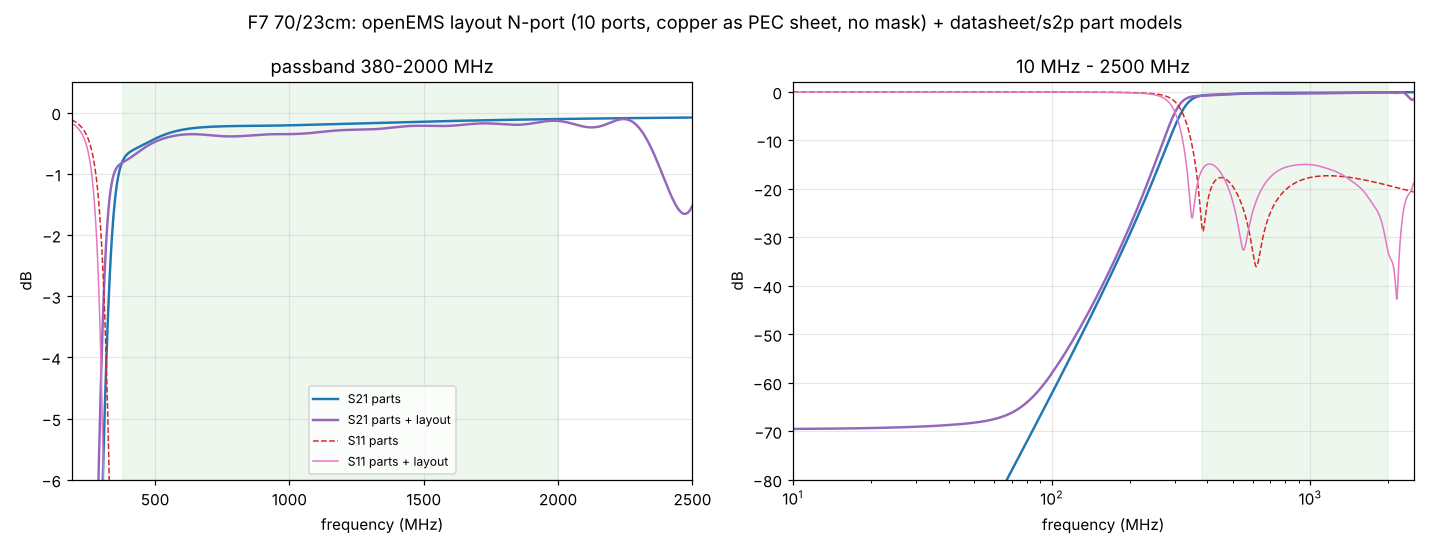
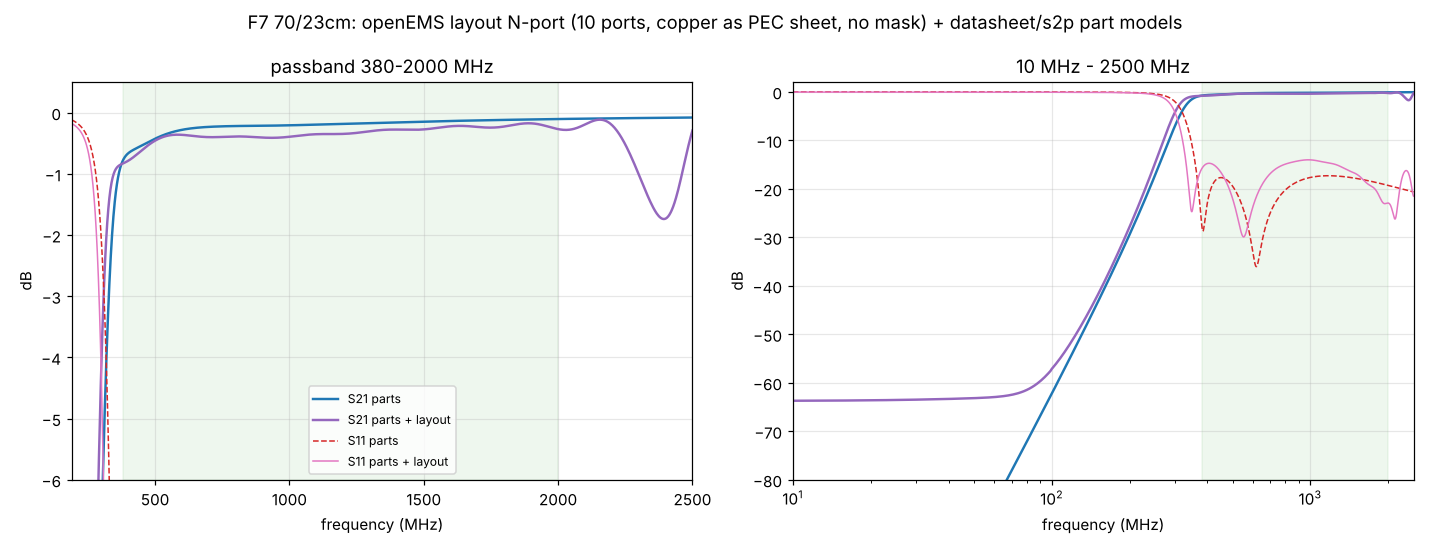
simu: F7 void what-if with kicad_sim 2026-10-21 (still port-reference limited)
Claude-Session: https://claude.ai/code/session_01YRUiF8Vp4242sya9Xyg3TV

diff --git a/simu/README.md b/simu/README.md
@@ -33,6 +33,6 @@ Output in `simu/out/`: `bank*.png` (S21/S11 of all branches, band shaded), `summ
 | PE42582 switch S-parameters in the chain | to do (pSemi model) |
 | openEMS layout N-port F6 (`openems/results/f6/`, 20 pad ports, 10 MHz-1.5 GHz, copper as PEC sheet, no mask; 20 excitations x 18 min on the GTX 1080) | done: passband IL +0.1 dB, RL 16.0 dB (was 16.6), -3 dB band 92-215 MHz (93-220); stopband above 700 MHz limited to about -45...-60 dB by pad-to-pad coupling (`out/f6_layout.png`) |
 | openEMS layout N-port F7 (`openems/results/f7/`, X99 with the office-z170 kicad_sim 2026-10-21 via `Z2_TWIN`, 1.25 MCells, 10 MHz-2.5 GHz, routed board 6cacac4) | done (the 2026-10-19 run gave nearly the same): every lane node carries 0.4-0.9 pF of pad capacitance to In1 (0603 pads over 0.2 mm prepreg); RL drops to 5.4 dB and IL rises to 1.6 dB above 1 GHz (`out/f7_layout.png`). E24/E12 grid search with the layout: 12p/6.8p/12p, 10n/10n (`f7_retune.py`, `out/f7_retune.png`): 70 cm IL 1.0 dB RL 10.1 dB, ADS-B IL 0.29 dB RL 18.7 dB, 23 cm IL 0.45 dB RL 12.6 dB, 1.7-2 GHz IL 0.96 dB RL 7.7 dB |
-| F7 with In1/In2 cleared under the signal pads (`void_pads.py`, `openems/results/f7void/`) | ran, not conclusive: the ports then reference B.Cu 1.5 mm below and their own ~1 nH path enters the series parts |
+| F7 with In1/In2 cleared under the signal pads (`void_pads.py`, `openems/results/f7void/`, kicad_sim 2026-10-21) | RL 14.0 dB, IL 0.17-0.83 dB (`out/f7void_layout.png`), but not conclusive: the ports then reference B.Cu 1.5 mm below and their own ~1 nH path enters the series parts; needs pad-to-pad ports to decide |
 | openEMS THRU (U8/U11 pins + R21) | first run (kicad_sim 2026-10-19) invalid: 45 deg tracks lost by the coarse mesh; the 2026-10-21 version meshes them, but meshing every net in the 43 x 22 mm window gave 127 MCells -> re-run with `Z2_MESH_NETS=ports` |
 | openEMS layout N-port F5 (`openems/results/f5/`, kicad_sim 2026-10-21, excitations 1-11 office-z170 + 12-20 X99 merged with `--collect`) | done: 1.0-1.1 pF per lane node to In1; passband IL 1.25-2.75 dB (parts only 1.10-2.30 dB), RL 10.4 dB (11.3), -3 dB band 26-83 MHz (`out/f5_layout.png`) |
